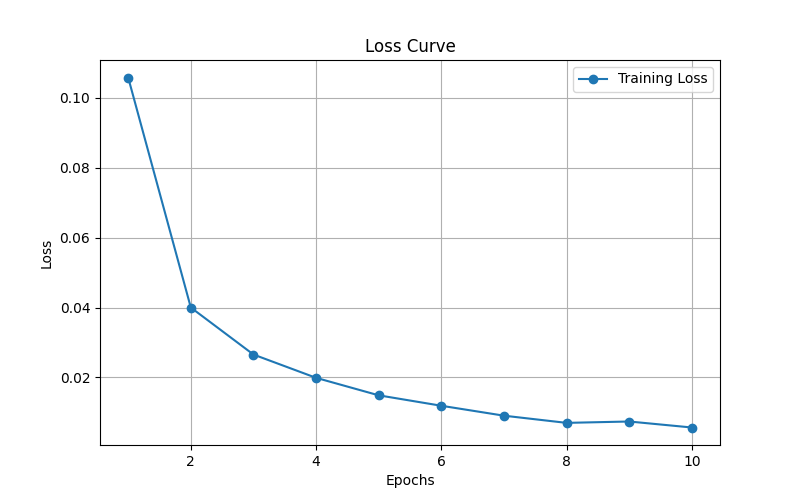
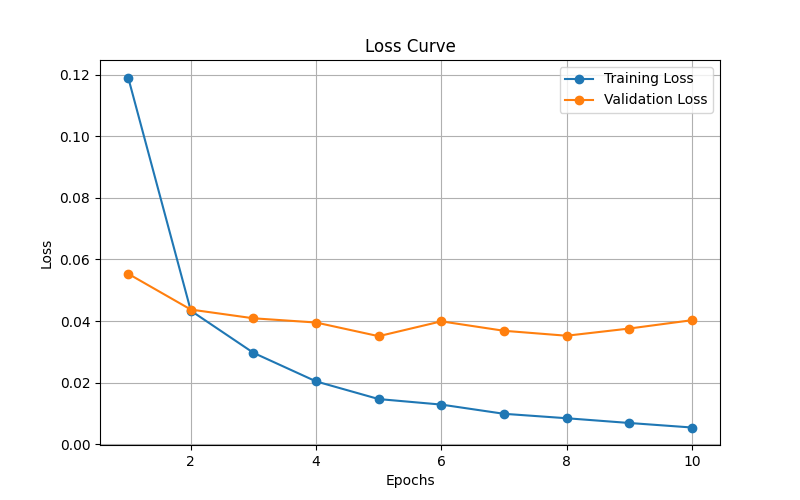
add validation loss tracking and tqdm progress bars

diff --git a/train_cnn.py b/train_cnn.py
@@ -9,12 +9,21 @@ from nn.save_load import save_model
 
 import numpy as np
 import matplotlib.pyplot as plt
+from tqdm import tqdm
 
 # load data
 x_train, y_train, x_test, y_test = load_mnist()
 
 x_train = x_train.reshape(-1, 28, 28, 1)
 x_test = x_test.reshape(-1, 28, 28, 1)
+
+val_split = 0.1
+val_size = int(len(x_train) * val_split)
+
+x_val = x_train[:val_size]
+y_val = y_train[:val_size]
+x_train = x_train[val_size:]
+y_train = y_train[val_size:]
 
 # define model
 model = Sequential([
@@ -38,6 +47,7 @@ epochs = 10
 batch_size = 32
 
 loss_history = []
+val_loss_history = []
 
 model.train()
 
@@ -50,7 +60,7 @@ for epoch in range(epochs):
     total_loss = 0
     num_batches = len(x_train) // batch_size
 
-    for i in range(num_batches):
+    for i in tqdm(range(num_batches), desc=f"Epoch {epoch+1}/{epochs}"):
         # get batch
         x_batch = x_train[i*batch_size:(i+1)*batch_size]
         y_batch = y_train[i*batch_size:(i+1)*batch_size]
@@ -70,12 +80,21 @@ for epoch in range(epochs):
     
     loss_history.append(total_loss / num_batches)
 
-    print(f"Epoch {epoch+1}/{epochs} - Loss: {total_loss/num_batches:.4f}")
+    model.eval()
+    val_logits = model.forward(x_val)
+    val_loss = loss_fn.forward(val_logits, y_val)
+    model.train()
+    val_loss_history.append(val_loss)
+
+    print(f"Epoch {epoch+1}/{epochs} - Train Loss: {total_loss/num_batches:.4f} - Val Loss: {val_loss:.4f}")
+
+
 
 epoch_range = range(1, len(loss_history) + 1)
 
 plt.figure(figsize=(8, 5))
 plt.plot(epoch_range, loss_history, label='Training Loss', marker='o')
+plt.plot(epoch_range, val_loss_history, label='Validation Loss', marker='o')
 plt.title('Loss Curve')
 plt.xlabel('Epochs')
 plt.ylabel('Loss')
